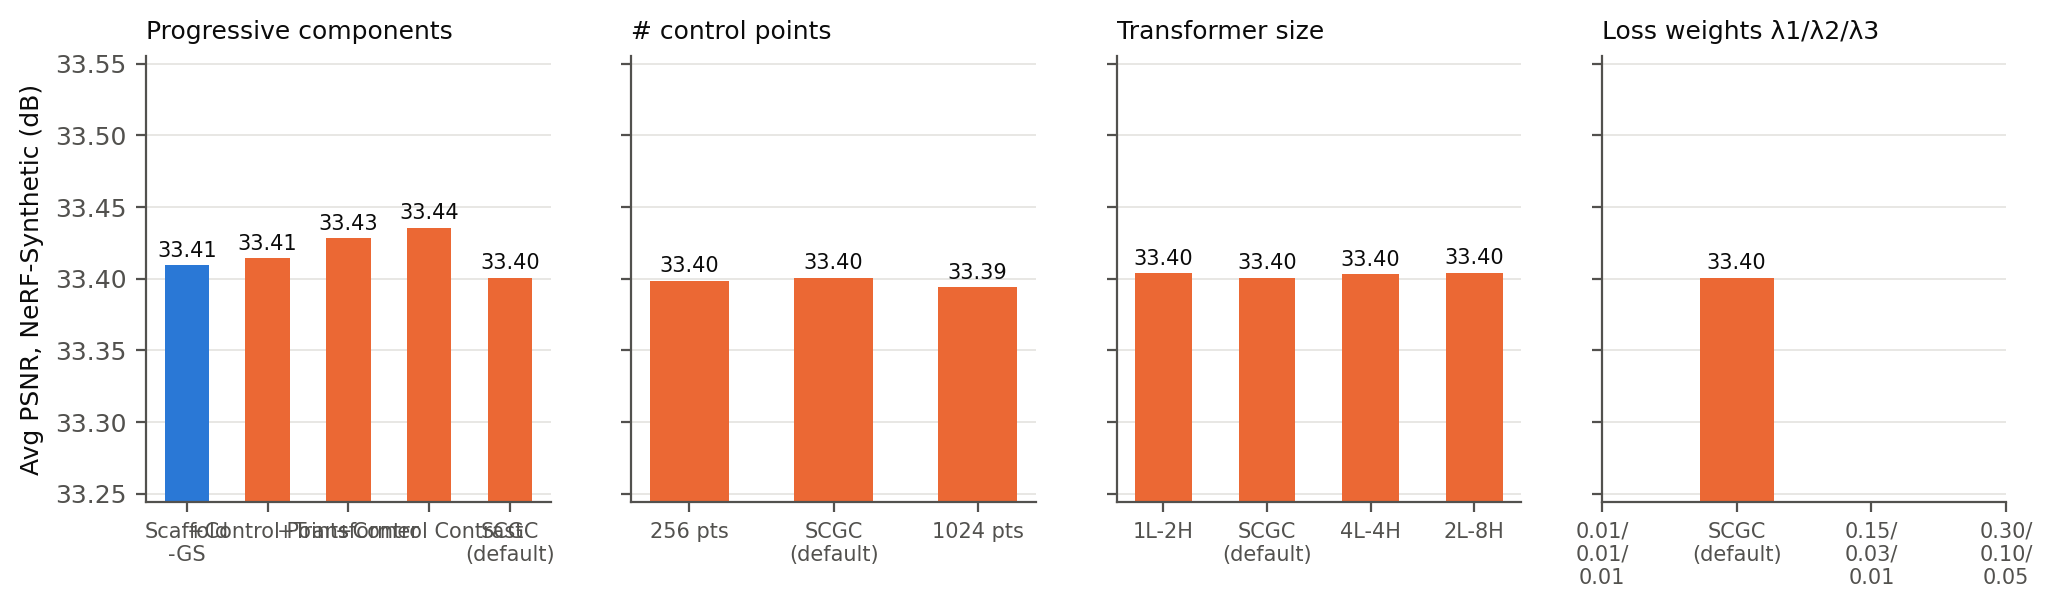
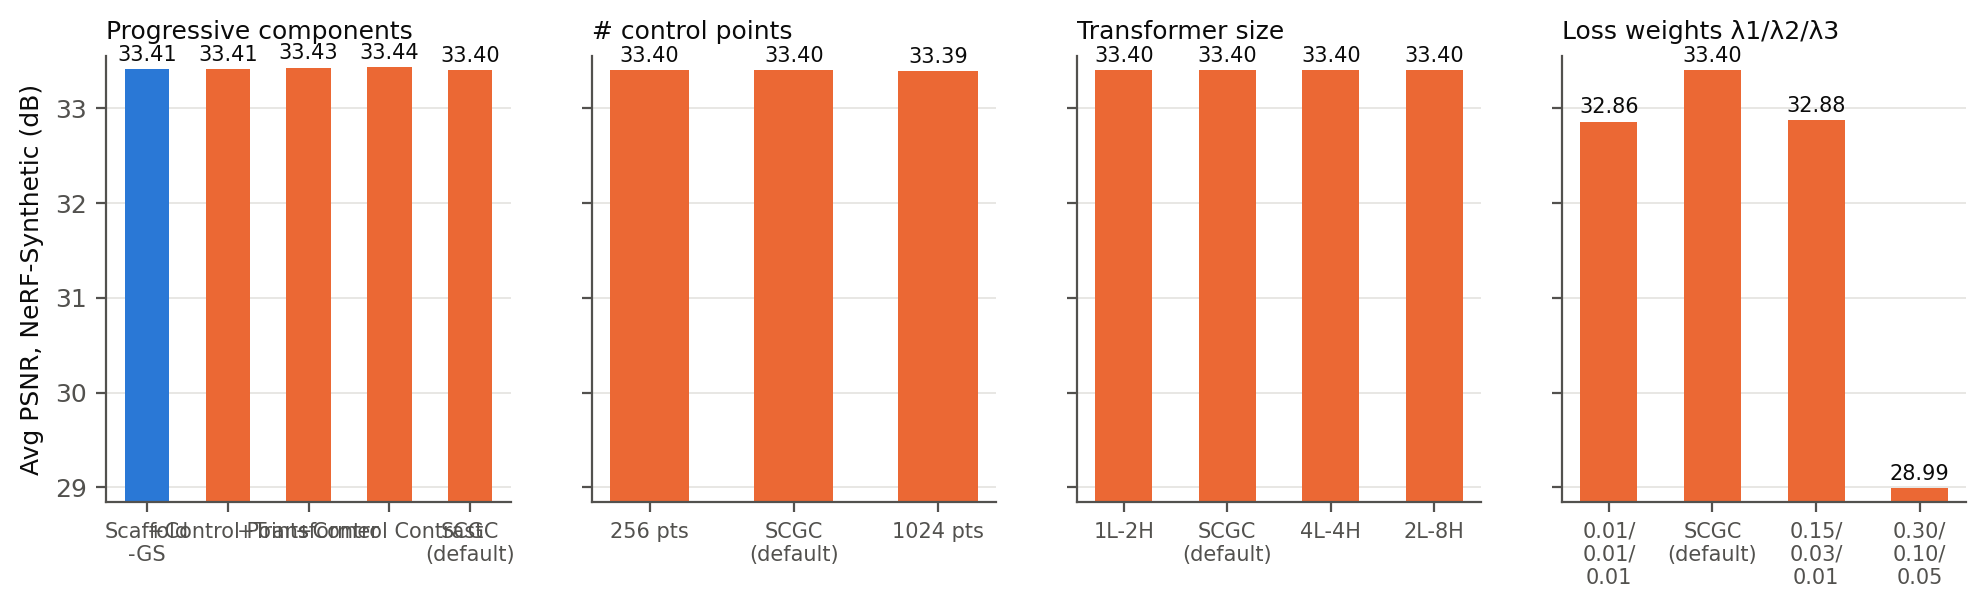
Final results: ablations, FPS benchmark, regenerated figures

diff --git a/results/tables.md b/results/tables.md
@@ -95,8 +95,8 @@
 
 | Config | PSNR | SSIM | LPIPS |
 |---|---|---|---|
-| 0.01 / 0.01 / 0.01 | – | – | – |
+| 0.01 / 0.01 / 0.01 | 32.86 | 0.966 | 0.035 |
 | SCGC, paper λ3 = 0.02 | 31.38 | 0.962 | 0.045 |
-| 0.15 / 0.03 / 0.01 | – | – | – |
-| 0.30 / 0.10 / 0.05 | – | – | – |
+| 0.15 / 0.03 / 0.01 | 32.88 | 0.965 | 0.035 |
+| 0.30 / 0.10 / 0.05 | 28.99 | 0.954 | 0.064 |
 | SCGC (ours) | 33.40 | 0.967 | 0.034 |
